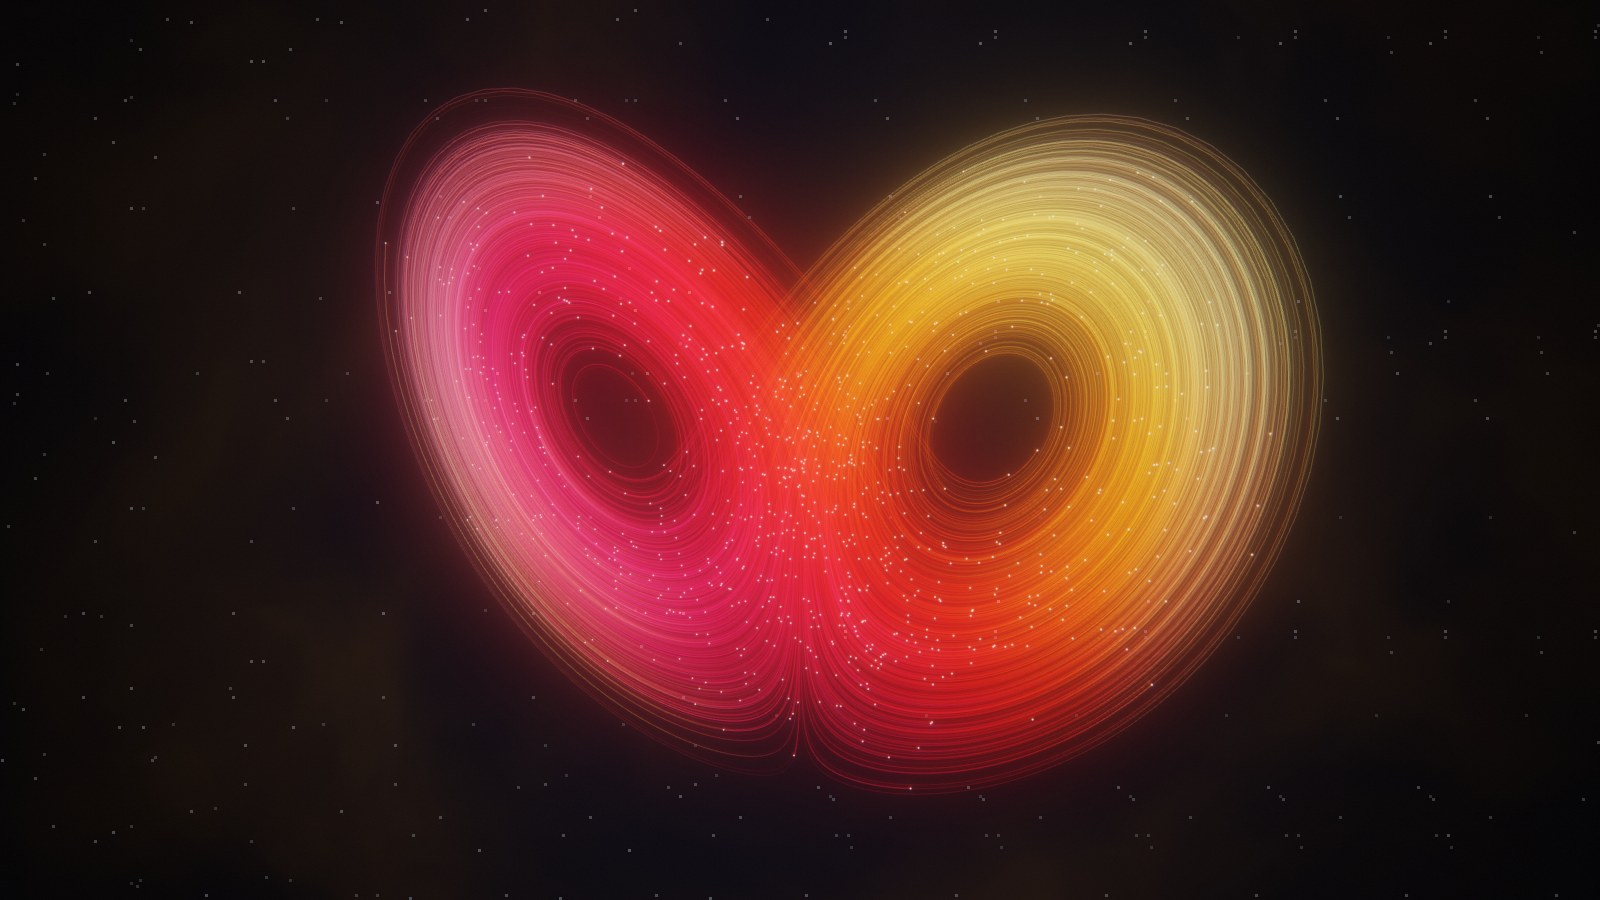
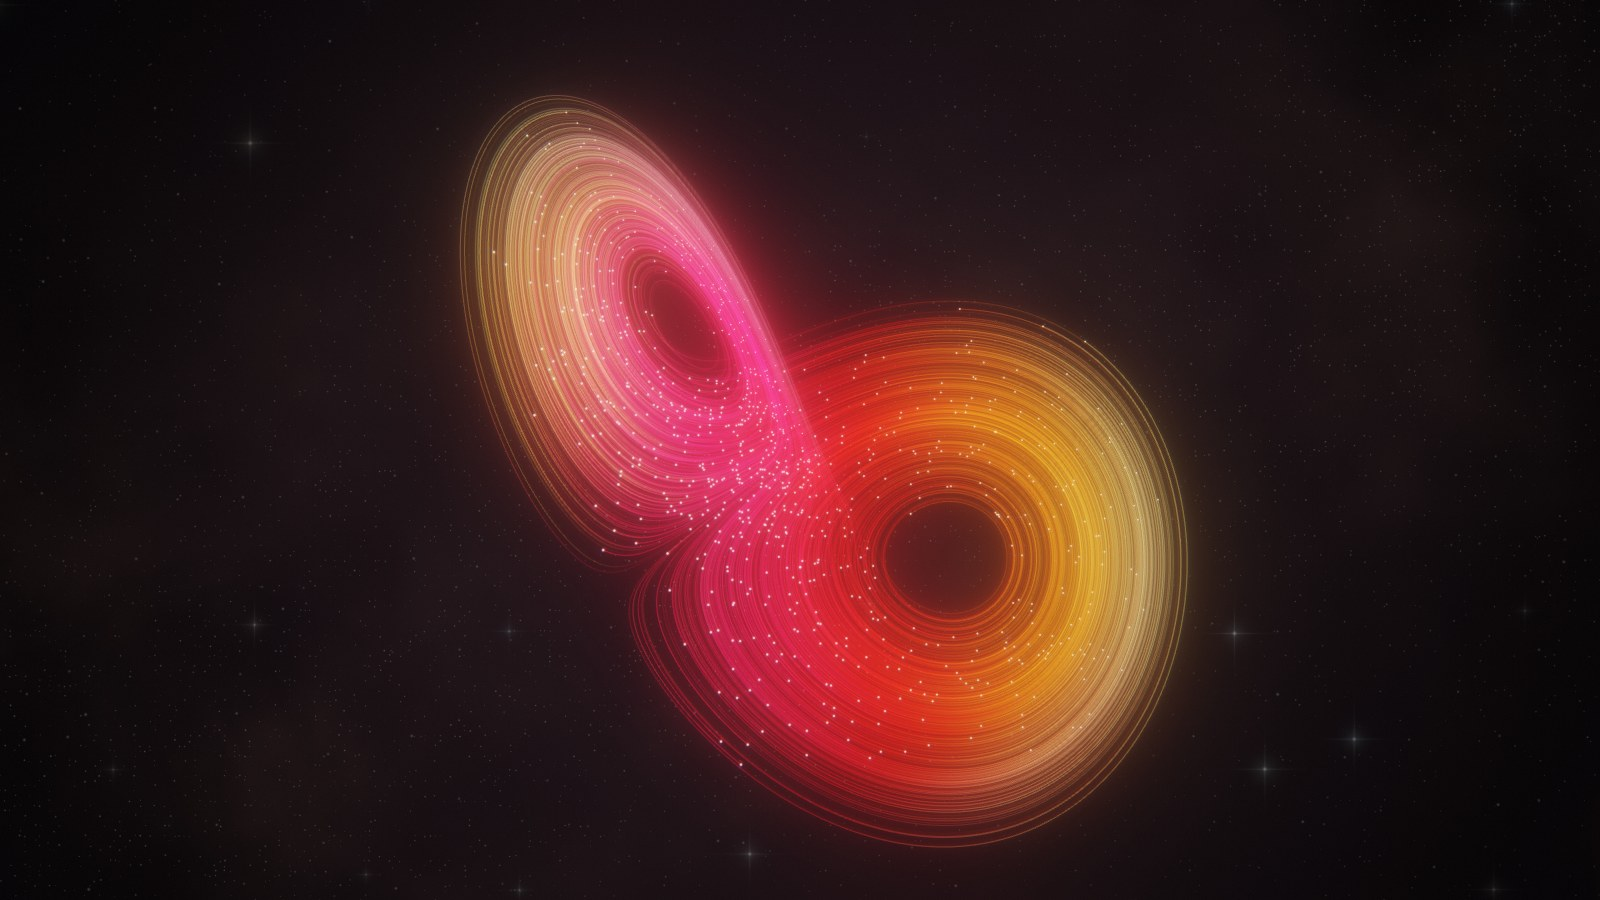
Refait l'arrière-plan : nébuleuse, bande galactique, étoiles en profondeur
Nébuleuse en domain warping à deux teintes tirées de la palette, avec
poussières sombres, bande galactique et halo central (toujours calculée
en 1/4 de résolution). Étoiles sur trois plans avec parallaxe,
températures de couleur et aigrettes sur les plus brillantes.

Claude-Session: https://claude.ai/code/session_01CSmt4QHY5g7gmnWB2T18rj

diff --git a/index.html b/index.html
@@ -210,6 +210,22 @@ float noise(vec2 p) {
   vec2 i = floor(p), f = fract(p); f = f * f * (3.0 - 2.0 * f);
   return mix(mix(hash(i), hash(i + vec2(1, 0)), f.x), mix(hash(i + vec2(0, 1)), hash(i + 1.0), f.x), f.y);
 }
+// une couche d'étoiles : au plus une étoile par cellule, ronde, de couleur et taille variables
+vec3 stars(vec2 fc, float cell, float density, float size, float seed, float spikes) {
+  vec2 g = fc / cell, id = floor(g), f = fract(g);
+  float h = hash(id + seed);
+  if (h > density) return vec3(0.0);
+  vec2 c = 0.3 + 0.4 * vec2(hash(id + seed + 1.7), hash(id + seed + 3.1));
+  vec2 v = (f - c) * cell;
+  float h2 = hash(id + seed + 5.3);
+  float rad = size * (0.55 + h2);
+  float a = exp(-dot(v, v) / (rad * rad));
+  a += spikes * (exp(-abs(v.y) * 1.4) * exp(-abs(v.x) / (rad * 7.0)) + exp(-abs(v.x) * 1.4) * exp(-abs(v.y) / (rad * 7.0))) * 0.35;
+  a += spikes * exp(-length(v) / (rad * 3.5)) * 0.25;
+  float tw = 0.7 + 0.3 * sin(uTime * (0.4 + h2 * 2.2) + h * 60.0);
+  vec3 tc = mix(vec3(1.0, 0.76, 0.55), vec3(0.62, 0.76, 1.0), hash(id + seed + 8.8));
+  return mix(vec3(1.0), tc, 0.6) * a * tw * (0.35 + h2);
+}
 vec3 aces(vec3 x) { return clamp((x * (2.51 * x + 0.03)) / (x * (2.43 * x + 0.59) + 0.14), 0.0, 1.0); }
 
 void main() {
@@ -219,14 +235,15 @@ void main() {
 
   // fond : abîme indigo + nébuleuse lente teintée par la palette
   vec3 bg = mix(vec3(0.0032, 0.0026, 0.0075), vec3(0.0003, 0.0003, 0.0007), smoothstep(0.0, 0.95, r));
-  bg += texture(uNeb, uv).rgb * (1.0 + uPulse * 0.6);
+  vec4 nb = texture(uNeb, uv);
+  bg += nb.rgb * (1.0 + uPulse * 0.6);
 
-  // étoiles avec léger parallaxe suivant la caméra
-  vec2 sc = gl_FragCoord.xy + uCam * uRes.y * 0.05;
-  vec2 cell = floor(sc / 3.0);
-  float h = hash(cell);
-  float tw = 0.55 + 0.45 * sin(uTime * (0.6 + h * 2.5) + h * 91.0);
-  bg += vec3(0.85, 0.9, 1.0) * step(0.9972, h) * tw * 0.09 * uStars * (0.3 + hash(cell + 7.0));
+  // étoiles en trois plans de profondeur : plus elles sont proches, plus elles bougent avec la caméra
+  vec2 fc = gl_FragCoord.xy * (1080.0 / uRes.y);
+  vec3 st = stars(fc + uCam * 25.0, 6.0, 0.05 + nb.a * 0.12, 0.55, 0.0, 0.0) * (0.22 + nb.a * 0.3);
+  st += stars(fc + uCam * 60.0, 26.0, 0.14, 0.85, 17.0, 0.0) * 0.45;
+  st += stars(fc + uCam * 120.0, 150.0, 0.2, 1.25, 41.0, 1.0) * 0.8;
+  bg += st * 0.12 * uStars;
 
   // lumière : scène HDR + bloom avec aberration chromatique sur les bords
   vec2 ca = (uv - 0.5) * 0.006;
@@ -243,7 +260,7 @@ void main() {
 const NEB_FS = `#version 300 es
 precision highp float;
 uniform vec2 uRes, uCam;
-uniform vec3 uTint;
+uniform vec3 uTint, uTint2;
 uniform float uTime, uNebula;
 in vec2 vUv; out vec4 o;
 float hash(vec2 p) { p = fract(p * vec2(123.34, 456.21)); p += dot(p, p + 45.32); return fract(p.x * p.y); }
@@ -252,12 +269,30 @@ float noise(vec2 p) {
   return mix(mix(hash(i), hash(i + vec2(1, 0)), f.x), mix(hash(i + vec2(0, 1)), hash(i + 1.0), f.x), f.y);
 }
 float fbm(vec2 p) { float v = 0.0, a = 0.5; for (int i = 0; i < 5; i++) { v += a * noise(p); p = p * 2.03 + 17.1; a *= 0.5; } return v; }
+// couleur pleinement saturée, sans perte de teinte
+vec3 sat(vec3 c) { c /= max(max(c.r, c.g), max(c.b, 1e-3)); return pow(c, vec3(1.8)); }
 void main() {
   vec2 p = (vUv - 0.5) * vec2(uRes.x / uRes.y, 1.0);
-  vec2 np = p * 1.4 + uCam * 0.08;
-  float n = fbm(np + vec2(uTime * 0.012, -uTime * 0.007));
-  float n2 = fbm(np * 2.2 - vec2(uTime * 0.009, 0.0) + n * 1.7);
-  o = vec4(uTint * pow(n2, 3.2) * 0.05 * uNebula * smoothstep(1.2, 0.05, length(p)), 1.0);
+  vec2 np = p * 1.25 + uCam * vec2(0.06, 0.04);
+  float t = uTime * 0.01;
+  // nuages : bruit replié sur lui-même (domain warping) pour des volutes organiques
+  vec2 q = vec2(fbm(np + vec2(0.0, t)), fbm(np + vec2(5.2, 1.3) - t));
+  vec2 w = vec2(fbm(np + 3.0 * q + vec2(1.7, 9.2) + t * 0.7), fbm(np + 3.0 * q + vec2(8.3, 2.8) - t * 0.5));
+  float f = fbm(np + 2.5 * w);
+  float dens = smoothstep(0.42, 1.0, f);
+  dens *= dens;
+  vec3 col = mix(sat(uTint2), sat(uTint), smoothstep(0.35, 0.95, length(q)));
+  col = mix(col, vec3(1.0, 0.9, 0.95), smoothstep(0.85, 1.1, f) * 0.15);
+  float dust = smoothstep(0.42, 0.78, fbm(np * 2.6 + w * 1.5 + 11.0));
+  vec3 neb = col * pow(dens, 1.5) * (1.0 - dust * 0.75);
+  // bande galactique diagonale, ondulée, traversée par les mêmes poussières
+  vec2 bd = normalize(vec2(1.0, 0.42));
+  float bb = dot(p + uCam * 0.04, vec2(-bd.y, bd.x)) + (fbm(np * 1.7 + 4.0) - 0.5) * 0.3;
+  float band = exp(-bb * bb * 8.0);
+  neb += mix(sat(uTint), vec3(0.9, 0.85, 1.0), 0.35) * band * 0.3 * pow(fbm(np * 4.5 + 2.0), 2.0) * (1.0 - dust * 0.85);
+  // halo derrière l'attracteur
+  neb += sat(mix(uTint, uTint2, 0.5)) * exp(-dot(p, p) * 3.5) * 0.12;
+  o = vec4(neb * 0.22 * uNebula, band);
 }`;
 
 let P_NEB, P_LINE, P_HEAD, P_DOWN, P_UP, P_COMP;
@@ -398,12 +433,12 @@ function rgb2hsl([r, g, b]) {
   const h = mx === r ? ((g - b) / d + 6) % 6 : mx === g ? (b - r) / d + 2 : (r - g) / d + 4;
   return [h / 6, s, l];
 }
-let palRGB = new Float32Array(12), tint = [0.5, 0.3, 1];
+let palRGB = new Float32Array(12), tint = [0.5, 0.3, 1], tint2 = [0.9, 0.3, 0.6];
 function updatePalette() {
   let stops;
   if (cfg.palette === 0) {
     stops = [[1, 0.3, 0.3], [0.3, 1, 0.4], [0.3, 0.5, 1], [1, 0.3, 1]];
-    tint = [0.35, 0.25, 0.9];
+    tint = [0.35, 0.25, 0.9]; tint2 = [0.85, 0.25, 0.55];
   } else if (cfg.palette >= PALETTES.length) {
     const [h, s] = rgb2hsl(cfg.custom);
     const sat = Math.max(0.55, s);
@@ -412,7 +447,10 @@ function updatePalette() {
     stops = PALETTES[cfg.palette].map(hex);
   }
   stops.forEach((c, i) => c.forEach((v, j) => { palRGB[i * 3 + j] = Math.pow(v, 2.2); }));
-  if (cfg.palette !== 0) tint = [0, 1, 2].map(j => (stops[0][j] + stops[1][j]) * 0.5);
+  if (cfg.palette !== 0) {
+    tint = [0, 1, 2].map(j => (stops[0][j] + stops[1][j]) * 0.5);
+    tint2 = [0, 1, 2].map(j => (stops[2][j] + stops[3][j]) * 0.5);
+  }
 }
 
 /* ---------------------------- Interaction ---------------------------- */
@@ -560,12 +598,13 @@ function frame(now) {
     gl.uniform2f(P_NEB.u.uRes, W, H);
     gl.uniform2f(P_NEB.u.uCam, cam.yaw, cam.pitch);
     gl.uniform3fv(P_NEB.u.uTint, tint);
+    gl.uniform3fv(P_NEB.u.uTint2, tint2);
     gl.uniform1f(P_NEB.u.uTime, cam.t);
     gl.uniform1f(P_NEB.u.uNebula, cfg.nebula);
     gl.drawArrays(gl.TRIANGLES, 0, 3);
   } else if (cfg.nebula <= 0 && nebAge !== -1) {
     nebAge = -1;
-    gl.bindFramebuffer(gl.FRAMEBUFFER, neb.fb); gl.clearColor(0, 0, 0, 1); gl.clear(gl.COLOR_BUFFER_BIT);
+    gl.bindFramebuffer(gl.FRAMEBUFFER, neb.fb); gl.clearColor(0, 0, 0, 0); gl.clear(gl.COLOR_BUFFER_BIT);
   }
 
   // 4. composition finale
